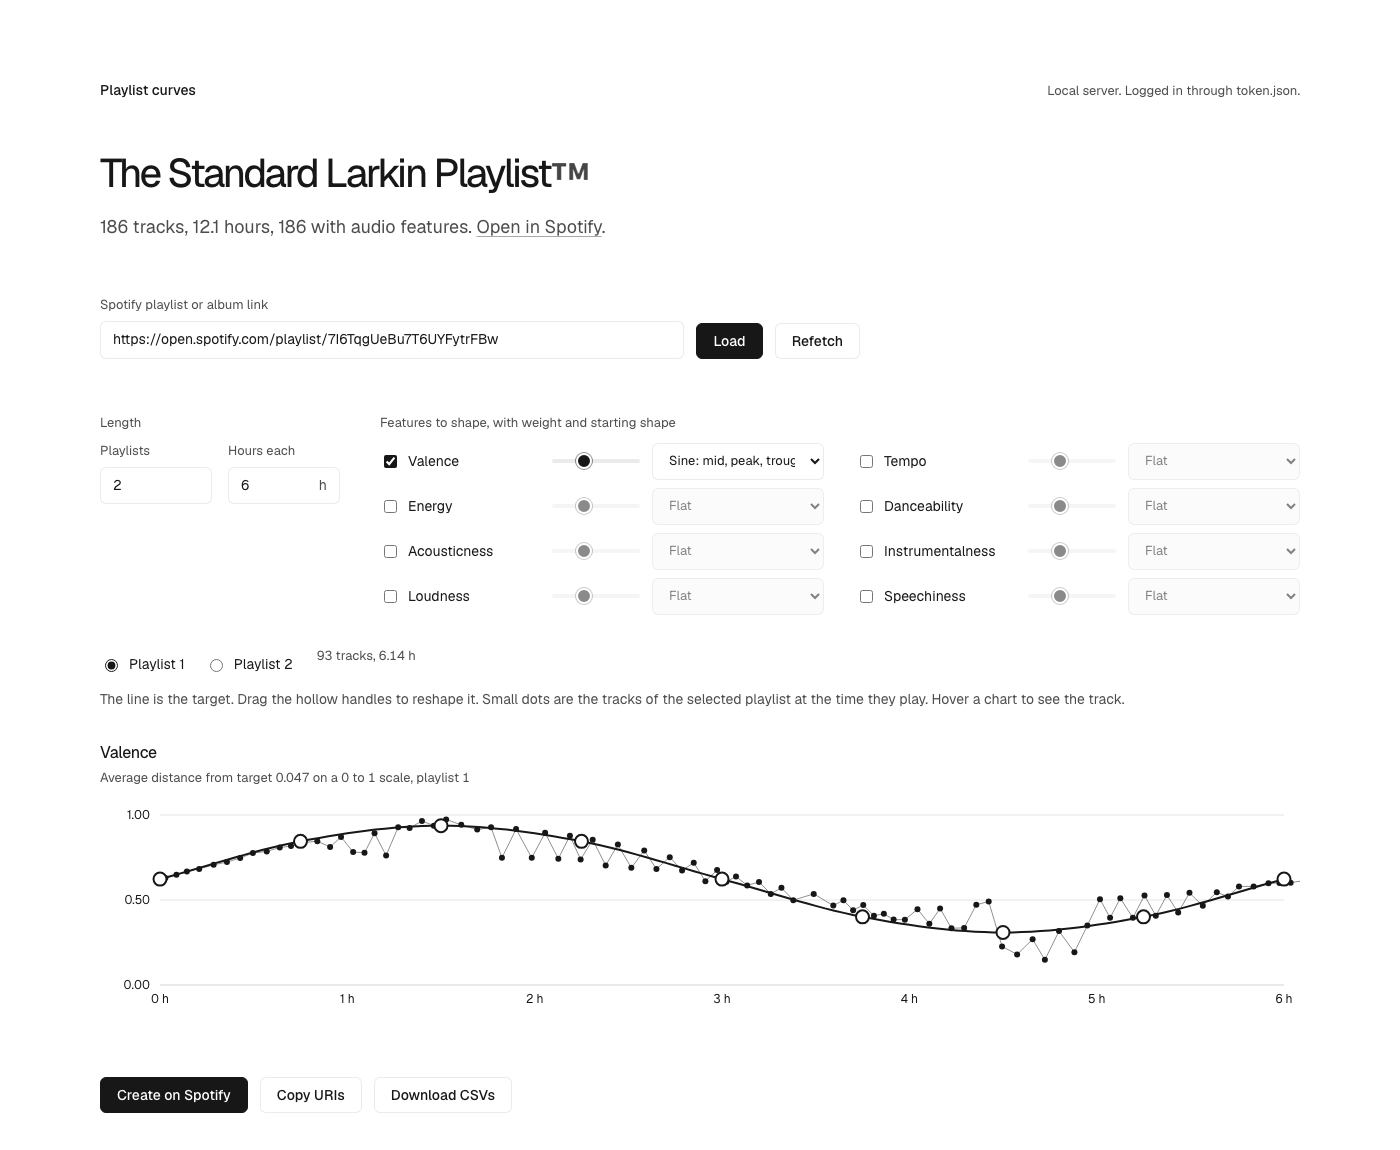
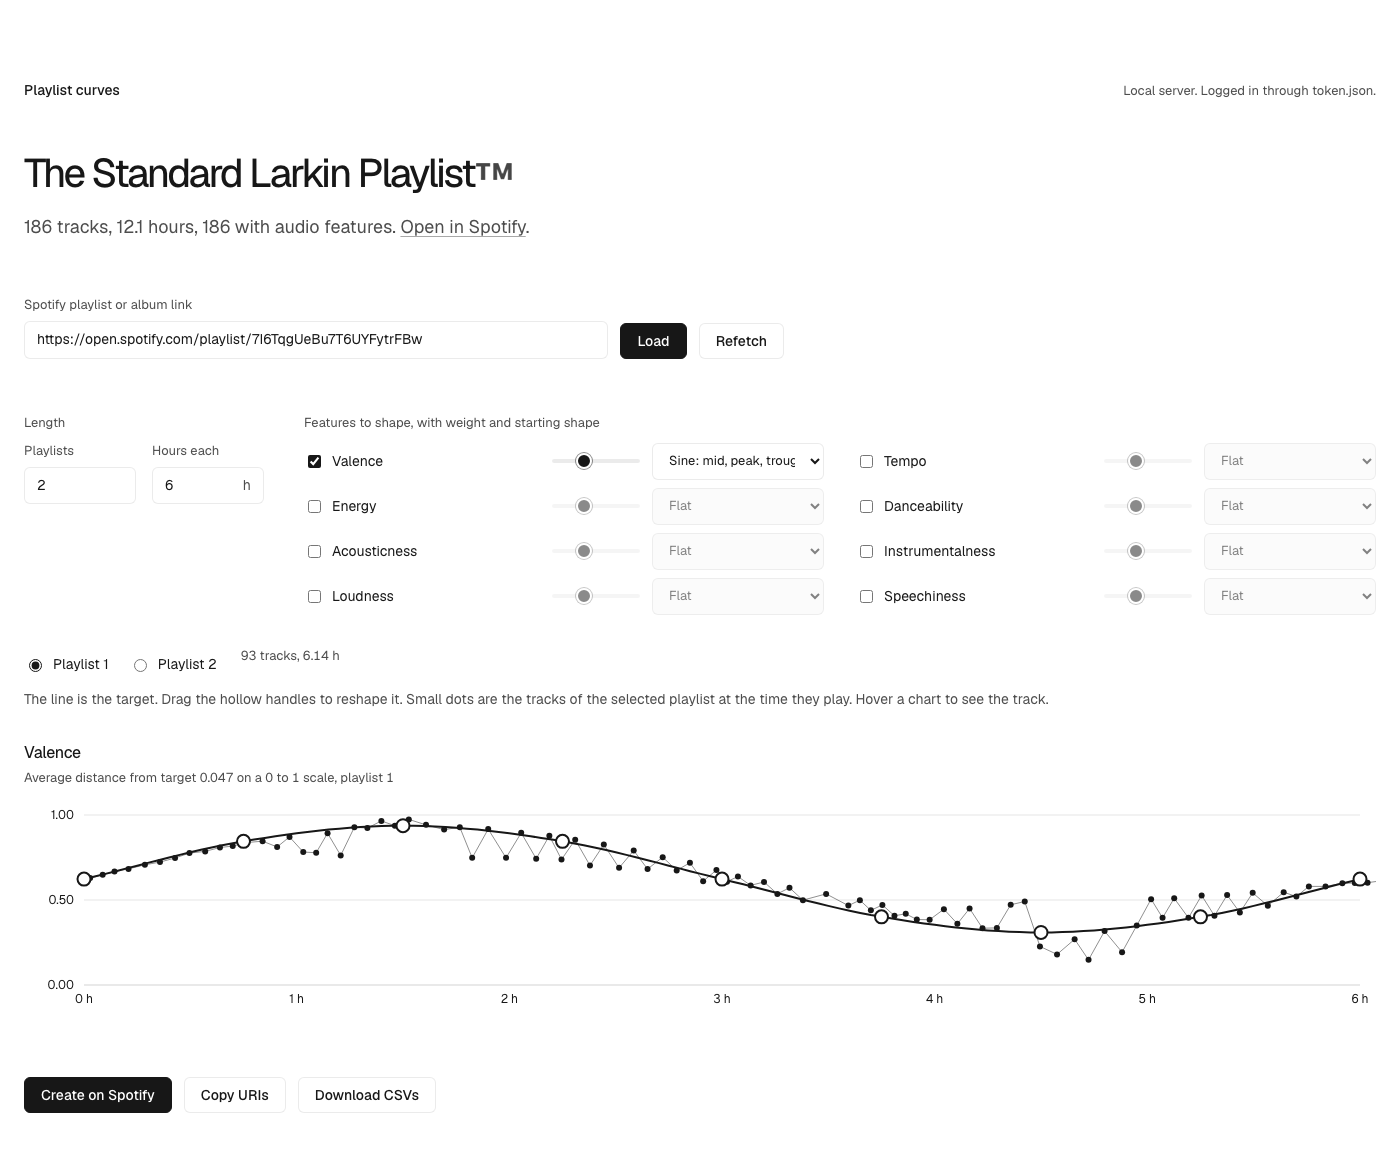
Let the editor fill the window width; widen feature rows so labels never meet the sliders

diff --git a/index.html b/index.html
@@ -12,6 +12,8 @@
 <style>
   /* Page-owned layout. Only vbg-custom-* / vbg-viz-* selectors, only public tokens. */
   .vbg-custom-page [hidden] { display: none !important; }
+  /* Full-width editor: the charts want every pixel, so drop the shell's fixed content width. */
+  .vbg-custom-page { width: calc(100% - 48px); max-width: none; }
   .vbg-custom-main { display: grid; gap: var(--vbg-space-12); }
   .vbg-custom-main > * { min-width: 0; }
 
@@ -24,8 +26,8 @@
   .vbg-custom-controls fieldset { min-width: 0; margin: 0; padding: 0; border: 0; }
   .vbg-custom-controls legend { padding: 0; margin-block-end: var(--vbg-space-3); }
   .vbg-custom-length-fields { display: grid; grid-template-columns: repeat(2, 112px); gap: var(--vbg-space-4); }
-  .vbg-custom-feature-list { display: grid; grid-template-columns: repeat(auto-fill, minmax(320px, 1fr)); gap: var(--vbg-space-2) var(--vbg-space-8); }
-  .vbg-custom-feature { display: grid; grid-template-columns: minmax(0, 1fr) 88px 172px; gap: var(--vbg-space-3); align-items: center; min-height: 36px; }
+  .vbg-custom-feature-list { display: grid; grid-template-columns: repeat(auto-fill, minmax(440px, 1fr)); gap: var(--vbg-space-2) var(--vbg-space-8); }
+  .vbg-custom-feature { display: grid; grid-template-columns: minmax(150px, 1fr) 88px 172px; gap: var(--vbg-space-3); align-items: center; min-height: 36px; }
   .vbg-custom-feature-name { display: flex; align-items: center; gap: var(--vbg-space-2); min-width: 0; color: var(--vbg-text-primary); font-size: var(--vbg-type-compact); line-height: var(--vbg-leading-compact); }
   .vbg-custom-feature-name input { flex: none; }
   .vbg-custom-feature input[type="range"], .vbg-custom-feature select { min-width: 0; width: 100%; }
